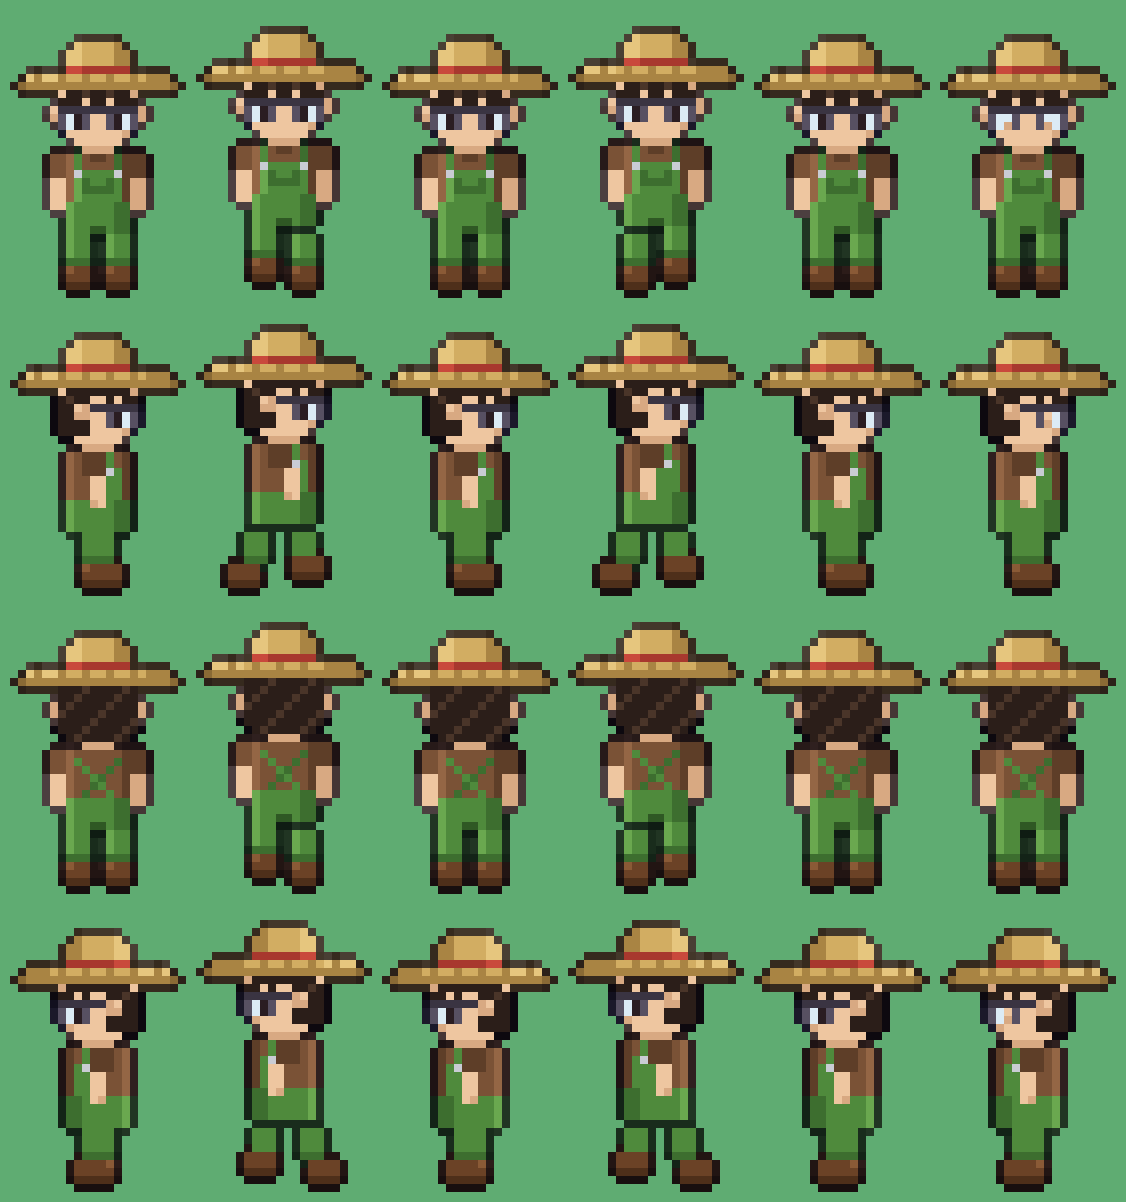
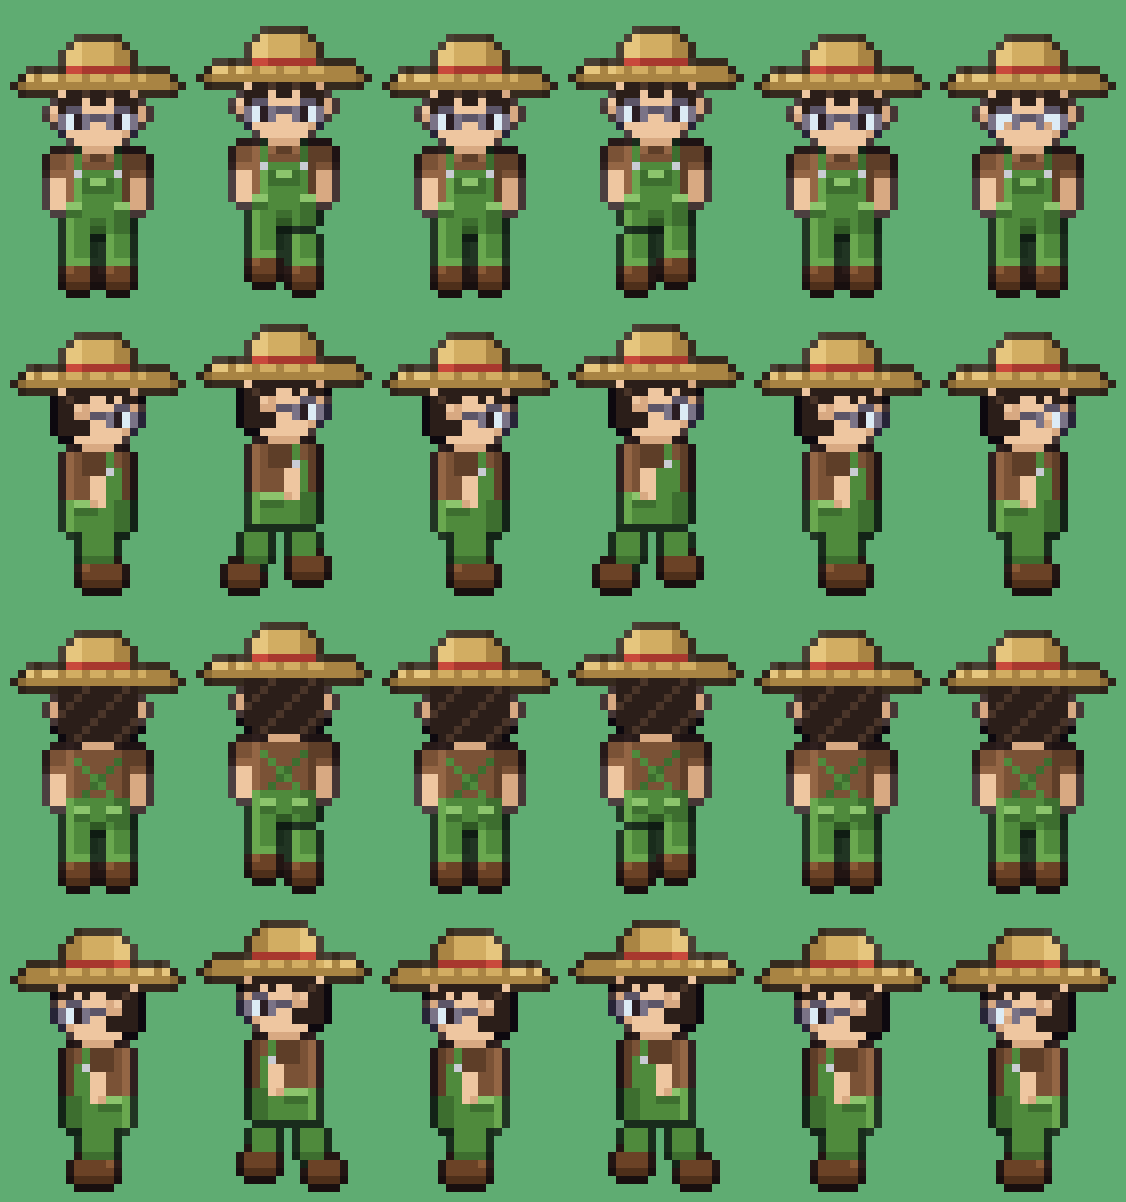
Farmer: thin glasses with middle bridge, side pockets and outfit details [skip ci]
Claude-Session: https://claude.ai/code/session_01DcRsQ77FYXtVXyNejf31QG

diff --git a/tools/farmer.py b/tools/farmer.py
@@ -2,7 +2,7 @@ from PIL import Image
 def C(h):return (int(h[1:3],16),int(h[3:5],16),int(h[5:7],16),255)
 P=dict(skin=C('#eec6a0'),skinS=C('#d8a982'),hair=C('#2b1e19'),hairL=C('#4a3529'),
  hat=C('#d2ad62'),hatL=C('#e6c67e'),hatS=C('#a98443'),hatD=C('#8a6a35'),band=C('#a8382e'),bandL=C('#c9493c'),
- frame=C('#575062'),frameD=C('#3a3442'),lens=C('#dcebf5'),eye=C('#2a1d22'),
+ frame=C('#7a7387'),frameD=C('#5c5568'),stitch=C('#8cc46c'),lens=C('#dcebf5'),eye=C('#2a1d22'),
  shirt=C('#7a5236'),shirtS=C('#5e3e28'),shirtL=C('#946645'),
  ov=C('#4f8a3c'),ovS=C('#3d6e2f'),ovL=C('#6aa84f'),ovD=C('#2f5824'),btn=C('#c9ccd4'),
  boot=C('#6b4226'),bootS=C('#4e2f1a'),bootL=C('#8a5a36'))
@@ -31,7 +31,7 @@ def farmer(d,f,o={}):
     if d!='side':
         for lx,up in((4,1 if lift==1 else 0),(9,1 if lift==2 else 0)):
             R(lx,22-up,3,4,P['ov']);R(lx,22-up,1,4,P['ovL']);R(lx,25-up,3,1,P['ovS'])
-            R(lx,26-up,3,3,P['boot']);X(lx,26-up,P['bootL']);R(lx,28-up,3,1,P['bootS'])
+            R(lx,25-up,3,1,P['ovL']);R(lx,26-up,3,3,P['boot']);X(lx,26-up,P['bootL']);R(lx,28-up,3,1,P['bootS'])
     else:
         if f%2:
             for lx,dy in((3,0),(9,-1)):R(lx,22,3,4,P['ov']);R(lx,25,3,1,P['ovS']);R(lx-1+(lx>5)*2-1,26+dy,4,3,P['boot']);R(lx-1+(lx>5)*2-1,28+dy,4,1,P['bootS'])
@@ -50,11 +50,21 @@ def farmer(d,f,o={}):
         for i in range(5):X(5+i,13+i+Y,P['ov']);X(10-i,13+i+Y,P['ovS'])
     else:
         R(8,14+Y,3,4,P['ov']);X(8,14+Y,P['ovL']);X(9,12+Y,P['ov']);X(9,13+Y,P['ov']);X(9,14+Y,P['btn'])
+    # outfit details: side pockets with stitching, center seam, rolled cuffs, collar
+    if d=='down':
+        for px in(4,10):R(px,18+Y,2,2,P['ovS']);X(px,18+Y,P['stitch']);X(px+1,18+Y,P['stitch'])
+        X(7,20+Y,P['ovS']);X(8,20+Y,P['ovS'])
+        X(6,12+Y,P['shirtL']);X(9,12+Y,P['shirtL'])
+        X(7,15+Y,P['stitch']);X(8,15+Y,P['stitch'])
+    elif d=='up':
+        for px in(5,9):R(px,19+Y,2,2,P['ovS']);X(px,19+Y,P['stitch']);X(px+1,19+Y,P['stitch'])
+    else:
+        R(5,18+Y,3,2,P['ovS']);X(5,18+Y,P['stitch']);X(6,18+Y,P['stitch']);X(7,18+Y,P['stitch'])
     # arms: short brown sleeves, thin skin forearms
     if d=='side':
         sw=[0,1,0,-1][f];R(6,12+Y,3,3,P['shirtS']);R(7+sw,15+Y,2,4,P['skin']);X(7+sw,18+Y,P['skinS'])
     else:
-        R(2,12+Y,2,3,P['shirt']);R(12,12+Y,2,3,P['shirtS'])
+        R(2,12+Y,2,3,P['shirt']);R(12,12+Y,2,3,P['shirtS']);R(2,14+Y,2,1,P['shirtL']);R(12,14+Y,2,1,P['shirt'])
         R(2,15+Y,2,4,P['skin']);R(12,15+Y,2,4,P['skinS'])
     # neck + head
     R(6,11+Y,4,1,P['skinS'])
@@ -69,9 +79,9 @@ def farmer(d,f,o={}):
         X(2,6+Y,P['skin']);X(2,7+Y,P['skinS']);X(13,6+Y,P['skinS']);X(13,7+Y,P['skinS'])   # ears stick out
         # square professor glasses, no mouth
         for x0 in(3,9):
-            R(x0,6+Y,4,1,P['frameD']);X(x0,7+Y,P['frame']);X(x0+3,7+Y,P['frame']);X(x0,8+Y,P['frame']);X(x0+3,8+Y,P['frame'])
+            R(x0+1,6+Y,2,1,P['frameD']);X(x0,7+Y,P['frame']);X(x0+3,7+Y,P['frame']);X(x0,8+Y,P['frame']);X(x0+3,8+Y,P['frame'])
             X(x0+1,7+Y,P['lens']);X(x0+2,7+Y,P['lens']);X(x0+1,8+Y,P['lens']);X(x0+2,8+Y,P['lens'])
-        X(7,6+Y,P['frameD']);X(8,6+Y,P['frameD'])
+        X(7,7+Y,P['frameD']);X(8,7+Y,P['frameD'])
         if o.get('blink'):X(5,8+Y,P['skinS']);X(10,8+Y,P['skinS'])
         else:X(5,7+Y,P['eye']);X(5,8+Y,P['eye']);X(10,7+Y,P['eye']);X(10,8+Y,P['eye'])
     elif d=='up':
@@ -84,8 +94,8 @@ def farmer(d,f,o={}):
             for x in range(3,7):H(x,y)
         H(9,5);H(11,5);H(12,5);H(4,5,P['hairL'])
         X(6,6+Y,P['skinS']);X(6,7+Y,P['skinS']);X(5,6+Y,P['skin']);X(5,7+Y,P['skinS'])   # ear
-        R(9,6+Y,4,1,P['frameD']);X(9,7+Y,P['frame']);X(12,7+Y,P['frame']);X(9,8+Y,P['frame']);X(12,8+Y,P['frame'])
-        X(11,7+Y,P['lens']);X(11,8+Y,P['lens']);X(7,6+Y,P['frameD']);X(8,6+Y,P['frameD'])
+        R(10,6+Y,2,1,P['frameD']);X(9,7+Y,P['frame']);X(12,7+Y,P['frame']);X(9,8+Y,P['frame']);X(12,8+Y,P['frame'])
+        X(11,7+Y,P['lens']);X(11,8+Y,P['lens']);X(7,7+Y,P['frameD']);X(8,7+Y,P['frameD'])
         X(10,8+Y,P['skinS']) if o.get('blink') else (X(10,7+Y,P['eye']),X(10,8+Y,P['eye']))
     # straw hat with red band
     for y,a,z in((-2,5,10),(-1,4,11),(0,4,11)):

diff --git a/assets/characters/farmer/README.md b/assets/characters/farmer/README.md
@@ -3,8 +3,8 @@
 Generated by `tools/farmer.py` (Python + Pillow). Not in the game yet.
 
 - **Build:** taller and thinner than Inad (about 4 px taller standing; feet at the bottom row).
-- **Look:** straw hat with a red band (`#d2ad62`, band `#a8382e`); green overalls (`#4f8a3c`, shade `#3d6e2f`, light `#6aa84f`) with a bib pocket, straps and metal buttons, over a **brown shirt** (`#7a5236`); brown boots (`#6b4226`).
-- **Face:** **no mouth**, **square professor glasses** (grey frames `#575062`/`#3a3442`, light lenses `#dcebf5`), **short noticeable bangs**, **slightly prominent ears**, dark brown-black hair (`#2b1e19`).
+- **Look:** straw hat with a red band (`#d2ad62`, band `#a8382e`); green overalls (`#4f8a3c`, shade `#3d6e2f`, light `#6aa84f`) with a bib pocket (stitched top), **side pockets with light stitching**, a center seam, rolled light-green cuffs, straps and metal buttons, over a **brown shirt** (`#7a5236`) with collar highlights and sleeve cuffs; brown boots (`#6b4226`).
+- **Face:** **no mouth**, **square professor glasses**: thin light-grey frames (`#7a7387`/`#5c5568`), bridge connecting the lenses in the middle, light lenses `#dcebf5`, **short noticeable bangs**, **slightly prominent ears**, dark brown-black hair (`#2b1e19`).
 - **Skin:** warm light Filipino tone `#eec6a0` (shade `#d8a982`).
 - `farmer_sheet.png`: 22×36 frames. Rows **down, right, up, left**; columns walk 0–3, idle, blink.
 - Based on the user's farmer reference (outfit), but the inner shirt is brown instead of light green.
